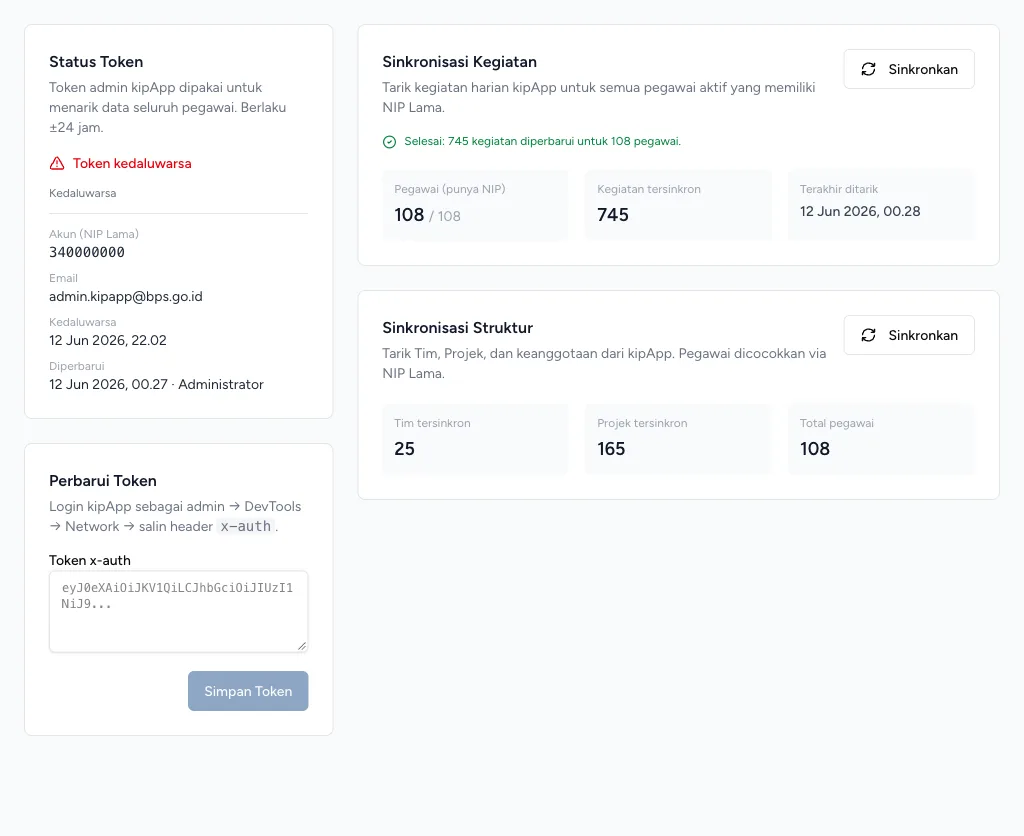
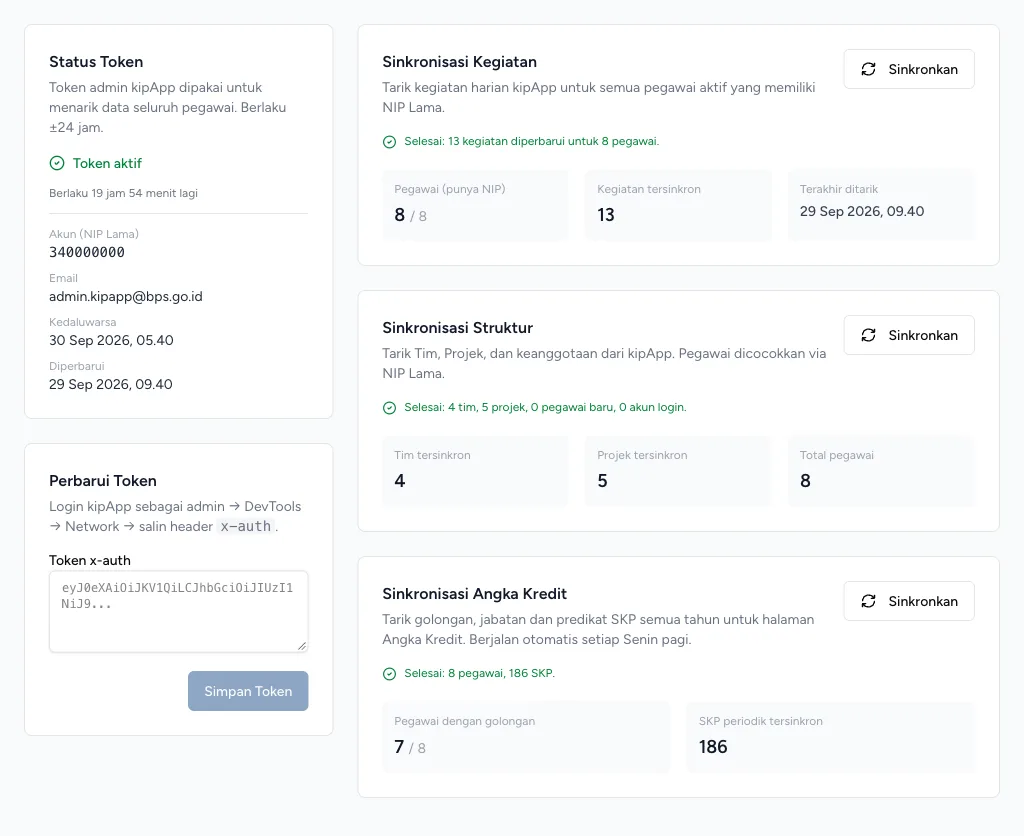
docs(pedoman): refresh screenshots and add Angka Kredit and Review Bersama shots
- New annotated shots: Review Bersama and Angka Kredit Tim (pimpinan), Angka Kredit Tim (PJ), Angka Kredit Saya (anggota).
- Re-shot Rekap Tim mingguan, Rekap Bulanan (Isi dari mingguan, Gabungkan) and Integrasi kipApp (Sinkronisasi Angka Kredit), all with mock names.
- New pimpinan step: Pantau Angka Kredit pegawai.
- Review Bersama: the table scrolls sideways and the lock status sits in the Status cell, so Catatan Pimpinan is no longer cut off at 1280 px.

diff --git a/resources/js/data/guide.ts b/resources/js/data/guide.ts
@@ -40,57 +40,95 @@ export const SHOTS = {
     },
     pjRekapTim: {
         src: '/images/pedoman/pj-rekap-tim.webp',
-        alt: 'Halaman Rekap Tim mingguan dengan kotak Siap rapat dan Kelengkapan anggota',
-        width: 1024, height: 1331,
+        alt: 'Halaman Rekap Tim mingguan dengan kotak Siap rapat, Kelengkapan anggota dan Ringkasan PJ',
+        width: 1024, height: 1187,
         markers: [
-            { n: 1, x: 2.6, y: 15, label: 'Siap rapat: empat langkah sebelum rapat. Klik untuk menuju bagiannya.' },
-            { n: 2, x: 85.1, y: 26.6, label: 'Kunci rekap setelah semua siap.' },
-            { n: 3, x: 2.6, y: 32.3, label: 'Kelengkapan anggota: siapa yang belum mengisi.' },
-            { n: 4, x: 1.2, y: 53.9, label: 'Baris rekap per Projek dan RK. Buka panah untuk mengisi Solusi dan RTL.' },
-            { n: 5, x: 2.6, y: 63.8, label: 'Ringkasan Mingguan PJ untuk rapat dengan pimpinan.' },
-            { n: 6, x: 1.2, y: 89.5, label: 'Bukti rapat: Notula, Dokumentasi, Daftar Hadir.' },
-            { n: 7, x: 81.5, y: 9.2, label: 'Unduh Excel format Rapat Mingguan.' },
+            { n: 1, x: 5.2, y: 16.8, label: 'Siap rapat: empat langkah sebelum rapat. Klik untuk menuju bagiannya.' },
+            { n: 2, x: 87.6, y: 29.8, label: 'Kunci rekap setelah semua siap.' },
+            { n: 3, x: 5.2, y: 35.6, label: 'Kelengkapan anggota: siapa yang belum mengisi.' },
+            { n: 4, x: 4.4, y: 49, label: 'Centang baris satu projek, lalu Gabungkan untuk satu uraian bersama.' },
+            { n: 5, x: 3.5, y: 69.3, label: 'Ringkasan Mingguan PJ untuk rapat dengan pimpinan.' },
+            { n: 6, x: 3.5, y: 92.3, label: 'Bukti rapat: Notula, Dokumentasi, Daftar Hadir.' },
+            { n: 7, x: 84, y: 10.3, label: 'Unduh Excel format Rapat Mingguan.' },
         ],
     },
     pjRekapBulanan: {
         src: '/images/pedoman/pj-rekap-bulanan.webp',
-        alt: 'Halaman Rekap Tim bulanan dengan tombol konfirmasi',
-        width: 1024, height: 836,
+        alt: 'Halaman Rekap Tim bulanan dengan tombol Isi dari mingguan, baris gabungan dan tombol Gabungkan',
+        width: 1024, height: 1007,
         markers: [
-            { n: 1, x: 2.6, y: 14.6, label: 'Perlu perhatian: saring baris yang harus ditinjau.' },
-            { n: 2, x: 18.3, y: 14.6, label: 'Konfirmasi semua baris yang capaiannya 100%.' },
-            { n: 3, x: 86.8, y: 58.3, label: 'Konfirmasi satu baris.' },
-            { n: 4, x: 93.1, y: 58.6, label: 'Buka panel parafrase kendala, solusi dan RTL.' },
-            { n: 5, x: 85.1, y: 40.4, label: 'Kunci rekap bulan ini sebelum rapat.' },
+            { n: 1, x: 20.8, y: 12.1, label: 'Isi Uraian, Permasalahan, Solusi dan RTL dari rekap mingguan (hanya kolom kosong).' },
+            { n: 2, x: 37.5, y: 12.1, label: 'Konfirmasi semua baris yang capaiannya 100%.' },
+            { n: 3, x: 87.6, y: 33.6, label: 'Kunci rekap bulan ini sebelum rapat.' },
+            { n: 4, x: 7.1, y: 59.3, label: 'Dua RK yang digabung: satu uraian dan parafrase. Pisahkan untuk membatalkan.' },
+            { n: 5, x: 74, y: 76.8, label: 'Baris yang dicentang siap digabungkan.' },
+            { n: 6, x: 95.6, y: 48.6, label: 'Buka panel Uraian, Kendala, Solusi dan RTL.' },
         ],
     },
-    pimpinanSemuaTim: {
-        src: '/images/pedoman/pimpinan-semua-tim.webp',
-        alt: 'Halaman Review Bersama untuk pimpinan',
+    pjAngkaKreditTim: {
+        src: '/images/pedoman/pj-angka-kredit-tim.webp',
+        alt: 'Halaman Angka Kredit Tim untuk PJ, anggota diurutkan dari yang paling dekat ke kenaikan',
         width: 1024, height: 836,
         markers: [
-            { n: 1, x: 2.6, y: 7.2, label: 'Pilih Mingguan, Bulanan atau Triwulanan.' },
-            { n: 2, x: 41.2, y: 7.2, label: 'Pindah periode dengan ‹ dan ›.' },
-            { n: 3, x: 1.2, y: 17.8, label: 'Ringkasan kantor: tim, capaian, rekap dikunci, baris dikonfirmasi.' },
-            { n: 4, x: 51.4, y: 32, label: 'Rata-rata capaian setiap tim.' },
-            { n: 5, x: 81.3, y: 31.9, label: 'Status: Dikunci berarti siap untuk rapat.' },
-            { n: 6, x: 92.3, y: 32, label: 'Buka rekap lengkap tim itu.' },
-            { n: 7, x: 74.8, y: 7.2, label: 'Unduh Excel semua tim untuk rapat.' },
+            { n: 1, x: 37.6, y: 7.1, label: 'Saring anggota per status kenaikan.' },
+            { n: 2, x: 45.2, y: 21.4, label: 'AK terkumpul dibanding AK yang dibutuhkan.' },
+            { n: 3, x: 72.3, y: 21.4, label: 'Syarat minimal 2 tahun dalam golongan.' },
+            { n: 4, x: 87.4, y: 21.4, label: 'Anggota paling dekat ke kenaikan tampil paling atas.' },
+        ],
+    },
+    anggotaAngkaKredit: {
+        src: '/images/pedoman/anggota-angka-kredit.webp',
+        alt: 'Halaman Angka Kredit Saya dengan kemajuan menuju jenjang berikutnya dan riwayat per triwulan',
+        width: 1024, height: 1198,
+        markers: [
+            { n: 1, x: 9.5, y: 15.3, label: 'Kenaikan berikutnya: pangkat atau jenjang.' },
+            { n: 2, x: 9.5, y: 21.5, label: 'AK terkumpul dibanding AK yang dibutuhkan.' },
+            { n: 3, x: 38.8, y: 24.8, label: 'Perkiraan jumlah triwulan lagi dengan predikat Baik.' },
+            { n: 4, x: 9.5, y: 32.3, label: 'SKP yang belum dinilai dihitung sebagai estimasi.' },
+            { n: 5, x: 74.4, y: 47.4, label: 'Riwayat AK per triwulan: Final atau Estimasi.' },
+        ],
+    },
+    pimpinanReviewBersama: {
+        src: '/images/pedoman/pimpinan-review-bersama.webp',
+        alt: 'Halaman Review Bersama untuk pimpinan dengan status capaian dan Catatan Pimpinan',
+        width: 1024, height: 836,
+        markers: [
+            { n: 1, x: 5.2, y: 7.2, label: 'Pilih Mingguan, Bulanan atau Triwulanan.' },
+            { n: 2, x: 40.2, y: 7.2, label: 'Pindah periode dengan ‹ dan ›.' },
+            { n: 3, x: 3.5, y: 17.8, label: 'Ringkasan kantor: tim, capaian, rekap dikunci, baris dikonfirmasi.' },
+            { n: 4, x: 3.5, y: 26.3, label: 'Saring satu tim.' },
+            { n: 5, x: 32.4, y: 26.3, label: 'Saring per status: Tercapai, Progres, Rendah.' },
+            { n: 6, x: 67.5, y: 39.1, label: 'Status capaian tim dan status kunci PJ.' },
+            { n: 7, x: 76.1, y: 39.1, label: 'Catatan Pimpinan untuk tim pada periode ini.' },
+            { n: 8, x: 33.6, y: 57, label: 'Projek tim beserta PIC, capaian dan catatannya.' },
+            { n: 9, x: 77.3, y: 7.2, label: 'Unduh Excel semua tim untuk rapat.' },
+        ],
+    },
+    pimpinanAngkaKredit: {
+        src: '/images/pedoman/pimpinan-angka-kredit.webp',
+        alt: 'Halaman Angka Kredit Tim untuk pimpinan, semua pegawai kantor',
+        width: 1024, height: 836,
+        markers: [
+            { n: 1, x: 5.2, y: 7.1, label: 'Pilih satu tim atau semua tim.' },
+            { n: 2, x: 37.6, y: 7.1, label: 'Saring per status kenaikan.' },
+            { n: 3, x: 26.7, y: 21.4, label: 'Kenaikan berikutnya: pangkat atau jenjang.' },
+            { n: 4, x: 45.2, y: 21.4, label: 'AK terkumpul dibanding AK yang dibutuhkan.' },
+            { n: 5, x: 65, y: 21.4, label: 'Sisa AK dan perkiraan jumlah triwulan.' },
+            { n: 6, x: 86.8, y: 21.4, label: 'Status: siap diusulkan, hampir, atau berjalan.' },
         ],
     },
     adminIntegrasi: {
         src: '/images/pedoman/admin-integrasi.webp',
-        alt: 'Halaman Integrasi kipApp dengan status token dan tombol sinkronisasi',
+        alt: 'Halaman Integrasi kipApp dengan status token dan tiga tombol sinkronisasi',
         width: 1024, height: 836,
         markers: [
-            { n: 1, x: 3.4, y: 7.3, label: 'Status token: masih berlaku atau kedaluwarsa.' },
-            { n: 2, x: 3.4, y: 73.1, label: 'Tempel token x-auth baru dari kipApp.' },
-            { n: 3, x: 17, y: 82.7, label: 'Simpan token.' },
-            { n: 4, x: 36, y: 39.1, label: 'Sinkronisasi Struktur: tim, projek, anggota, RK.' },
-            { n: 5, x: 81, y: 40.1, label: 'Jalankan struktur lebih dulu.' },
-            { n: 6, x: 36, y: 7.3, label: 'Sinkronisasi Kegiatan: kegiatan harian semua pegawai.' },
-            { n: 7, x: 81, y: 8.3, label: 'Lalu jalankan kegiatan.' },
-            { n: 8, x: 57, y: 22.6, label: 'Hasil sinkronisasi terakhir.' },
+            { n: 1, x: 6, y: 7.3, label: 'Status token: masih berlaku atau kedaluwarsa.' },
+            { n: 2, x: 6, y: 73.1, label: 'Tempel token x-auth baru dari kipApp.' },
+            { n: 3, x: 19.5, y: 82.7, label: 'Simpan token.' },
+            { n: 4, x: 38.5, y: 39.1, label: 'Sinkronisasi Struktur: tim, projek, anggota, RK. Jalankan lebih dulu.' },
+            { n: 5, x: 38.5, y: 7.3, label: 'Sinkronisasi Kegiatan: kegiatan harian semua pegawai.' },
+            { n: 6, x: 38.5, y: 70.9, label: 'Sinkronisasi Angka Kredit: golongan dan predikat SKP.' },
+            { n: 7, x: 83.5, y: 71.9, label: 'Tekan Sinkronkan dan biarkan halaman terbuka sampai selesai.' },
         ],
     },
     devtoolsXauth: {
@@ -202,6 +240,7 @@ export const GUIDE_FLOWS: GuideFlow[] = [
                     'Batang kemajuan menunjukkan AK yang sudah terkumpul menuju pangkat atau jenjang berikutnya, sisa AK, dan perkiraan jumlah triwulan lagi dengan predikat Baik.',
                     'Triwulan yang belum dinilai ditandai Estimasi dan dihitung dengan predikat Baik.',
                 ],
+                shot: SHOTS.anggotaAngkaKredit,
                 tip: 'Angka ini adalah pemantauan. Usulan kenaikan pangkat tetap memakai PAK resmi.',
             },
         ],
@@ -289,6 +328,7 @@ export const GUIDE_FLOWS: GuideFlow[] = [
                     'Daftar anggota diurutkan dari yang paling dekat ke kenaikan: Siap diusulkan, AK cukup tetapi menunggu 2 tahun, Hampir (paling lama 2 triwulan lagi), lalu Berjalan.',
                     'Pimpinan dan admin melihat semua tim. PJ melihat anggota tim yang dipimpinnya.',
                 ],
+                shot: SHOTS.pjAngkaKreditTim,
             },
         ],
     },
@@ -306,7 +346,7 @@ export const GUIDE_FLOWS: GuideFlow[] = [
                     'Pilih Mingguan, Bulanan atau Triwulanan, lalu pilih periode dengan ‹ dan ›.',
                     'Kotak ringkasan menunjukkan jumlah tim yang sudah punya rekap, rata-rata capaian kantor, jumlah rekap yang sudah dikunci PJ, dan jumlah baris yang sudah dikonfirmasi.',
                 ],
-                shot: SHOTS.pimpinanSemuaTim,
+                shot: SHOTS.pimpinanReviewBersama,
             },
             {
                 title: 'Baca tabel per tim',
@@ -335,6 +375,17 @@ export const GUIDE_FLOWS: GuideFlow[] = [
             {
                 title: 'Unduh Excel semua tim',
                 body: ['"Unduh Excel semua tim" menghasilkan satu sheet untuk seluruh kantor, dengan format seperti spreadsheet rapat sebelumnya.'],
+            },
+            {
+                title: 'Pantau Angka Kredit pegawai',
+                where: 'Menu Rekap Tim → Angka Kredit Tim',
+                route: 'credit.team',
+                body: [
+                    'Pilih "Semua tim" untuk melihat seluruh pegawai kantor, atau satu tim.',
+                    'Pegawai yang "Siap diusulkan" sudah cukup AK dan sudah 2 tahun dalam golongannya. "Hampir" berarti paling lama 2 triwulan lagi.',
+                    'Angka ini adalah pemantauan dari predikat SKP kipApp. Usulan kenaikan tetap memakai PAK resmi.',
+                ],
+                shot: SHOTS.pimpinanAngkaKredit,
             },
             {
                 title: 'Lihat laporan dan data master',

diff --git a/resources/js/Pages/Kinetik/RecapOverview.vue b/resources/js/Pages/Kinetik/RecapOverview.vue
@@ -104,7 +104,7 @@ const officeAverage = computed(() => {
 });
 const lockedCount = computed(() => props.teams.filter(t => t.locked).length);
 const isWeek = computed(() => props.periodType === 'week');
-const columnCount = computed(() => (isWeek.value ? 10 : 9));
+const columnCount = computed(() => (isWeek.value ? 9 : 8));
 
 // Expanded team rows (project breakdown with each project's PIC).
 const expanded = ref<Set<number>>(new Set());
@@ -208,19 +208,18 @@ function toggle(teamId: number) {
         </div>
 
         <!-- Per-team table -->
-        <div class="overflow-hidden rounded-lg border bg-white">
+        <div class="overflow-x-auto rounded-lg border bg-white">
             <Table class="text-sm">
                 <TableHeader>
                     <TableRow class="bg-gray-50 text-xs uppercase tracking-wide text-gray-500">
-                        <TableHead class="min-w-[14rem]">Tim</TableHead>
-                        <TableHead class="min-w-[10rem]">PJ</TableHead>
+                        <TableHead class="min-w-[12rem]">Tim</TableHead>
+                        <TableHead class="min-w-[9rem]">PJ</TableHead>
                         <TableHead class="text-right">Baris RK</TableHead>
                         <TableHead class="min-w-[9rem]">Capaian</TableHead>
                         <TableHead class="text-right">Dikonfirmasi</TableHead>
                         <TableHead v-if="isWeek" class="text-right">Anggota lengkap</TableHead>
                         <TableHead>Status</TableHead>
-                        <TableHead>Kunci</TableHead>
-                        <TableHead class="min-w-[16rem]">Catatan Pimpinan</TableHead>
+                        <TableHead class="min-w-[14rem]">Catatan Pimpinan</TableHead>
                         <TableHead class="w-10"><span class="sr-only">Buka</span></TableHead>
                     </TableRow>
                 </TableHeader>
@@ -267,12 +266,10 @@ function toggle(teamId: number) {
                             <span :class="['inline-flex whitespace-nowrap rounded-full px-2 py-0.5 text-xs font-medium', REVIEW_STATUS_META[reviewStatus(team.avg_achievement)].chip]">
                                 {{ REVIEW_STATUS_META[reviewStatus(team.avg_achievement)].label }}
                             </span>
-                        </TableCell>
-                        <TableCell>
-                            <span v-if="team.locked" class="inline-flex items-center gap-1 rounded-full bg-amber-100 px-2 py-0.5 text-xs font-medium text-amber-800">
-                                <Lock class="h-3 w-3" aria-hidden="true" /> Dikunci
+                            <span v-if="team.locked" class="mt-1 flex items-center gap-1 whitespace-nowrap text-xs font-medium text-amber-700">
+                                <Lock class="h-3 w-3" aria-hidden="true" /> Dikunci PJ
                             </span>
-                            <span v-else class="inline-flex items-center gap-1 rounded-full bg-gray-100 px-2 py-0.5 text-xs font-medium text-gray-600">
+                            <span v-else class="mt-1 flex items-center gap-1 whitespace-nowrap text-xs text-gray-500">
                                 <LockOpen class="h-3 w-3" aria-hidden="true" /> Terbuka
                             </span>
                         </TableCell>
